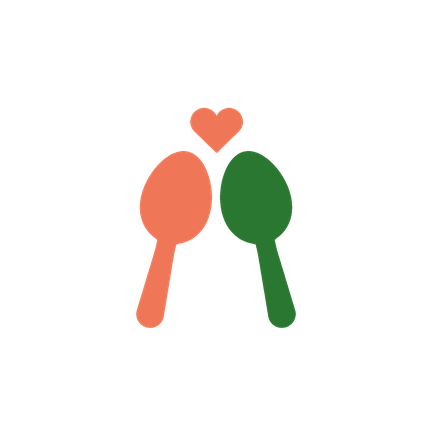
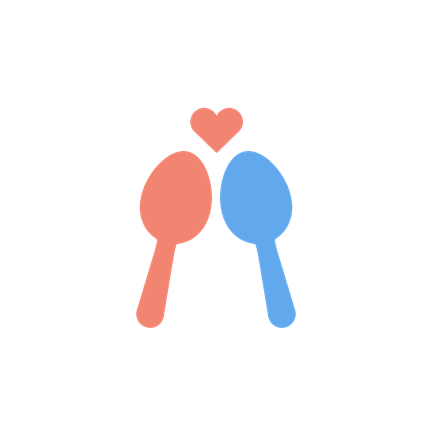
feat(brand): 앱 아이콘을 흰 바탕 + 연한 코랄·하늘 숟가락으로 바꾸고 알림 아이콘을 따로 둔다

Changed region(s): [[0.3009, 0.331, 0.6921, 0.7824], [0.4213, 0.2407, 0.5718, 0.3611]]

diff --git a/store/icon/make_icon.py b/store/icon/make_icon.py
@@ -18,9 +18,12 @@ import pathlib
 from PIL import Image, ImageDraw
 
 
-BG = '#FAF5E8'
-CORAL = '#EF7757'
-GREEN = '#2A7731'   # 앱 primary — 아이콘과 앱 안의 초록을 같은 값으로
+# 2026-10-02: 크림 바탕 + 코랄·초록 → 흰 바탕 + 연한 코랄·하늘(시안 H).
+# 원색 판 아이콘들 사이에서 흰 판이 가장 눈에 띄고, 두 숟가락이 색으로 갈려 "둘"이 바로 읽힌다.
+# 진한 빨강+파랑(정당 색)·분홍+하늘(성별 색)은 피했다 — docs/APP_ICON_COLOR_2026-10-02.md
+BG = '#FFFFFF'
+CORAL = '#F28472'
+SKY = '#62A8EC'
 
 # ── 왼쪽 숟가락: 곧은 축 하나 + 축을 따라 변하는 폭 ──
 # 시안을 재 보니 볼의 기울기와 손잡이 방향이 한 직선 위에 있다(윗부분은 가운데로, 끝은 바깥으로).
@@ -98,7 +101,7 @@ def mirror(pts):
 LEFT = [spoon_outline()]
 RIGHT = [mirror(p) for p in LEFT]
 HEART = heart_parts()
-SHAPES = [(p, CORAL) for p in LEFT] + [(p, GREEN) for p in RIGHT] + [(p, CORAL) for p in HEART]
+SHAPES = [(p, CORAL) for p in LEFT] + [(p, SKY) for p in RIGHT] + [(p, CORAL) for p in HEART]
 
 
 def svg(bg=True, scale=1.0, mono=None):
@@ -188,6 +191,10 @@ if __name__ == '__main__':
     render(432, None, ANDROID_SCALE).save(ASSETS / 'android-icon-foreground.png')
     Image.new('RGBA', (432, 432), BG).save(ASSETS / 'android-icon-background.png')
     render(432, None, ANDROID_SCALE, mono='#000000', shapes=mono_shapes()).save(ASSETS / 'android-icon-monochrome.png')
+    # 안드로이드 알림(상태 표시줄) 아이콘 — 시스템이 <b>알파만</b> 쓰고 색은 app.json 의 color 로 입힌다.
+    # 지정하지 않으면 런처 아이콘(불투명 흰 판)을 쓰는데, 알파가 꽉 차 있어 상태 표시줄에 흰 덩어리로 나온다.
+    # 단색 아이콘과 같은 도형(볼 사이 틈을 벌린 것)을 흰색으로 — 24dp 에서도 두 숟가락이 갈린다.
+    render(96, None, 1.0, mono='#FFFFFF', shapes=mono_shapes()).save(ASSETS / 'notification-icon.png')
     # Play 스토어 512 — 불투명 바탕. Play 는 원 마스크에서 반지름 0.455 까지 남긴다: 422/1024*512=211 < 233
     render(512, BG).convert('RGB').save(ROOT.parent / 'play_icon_512.png')
     TS_OUT.write_text(ts_paths(), encoding='utf-8')
